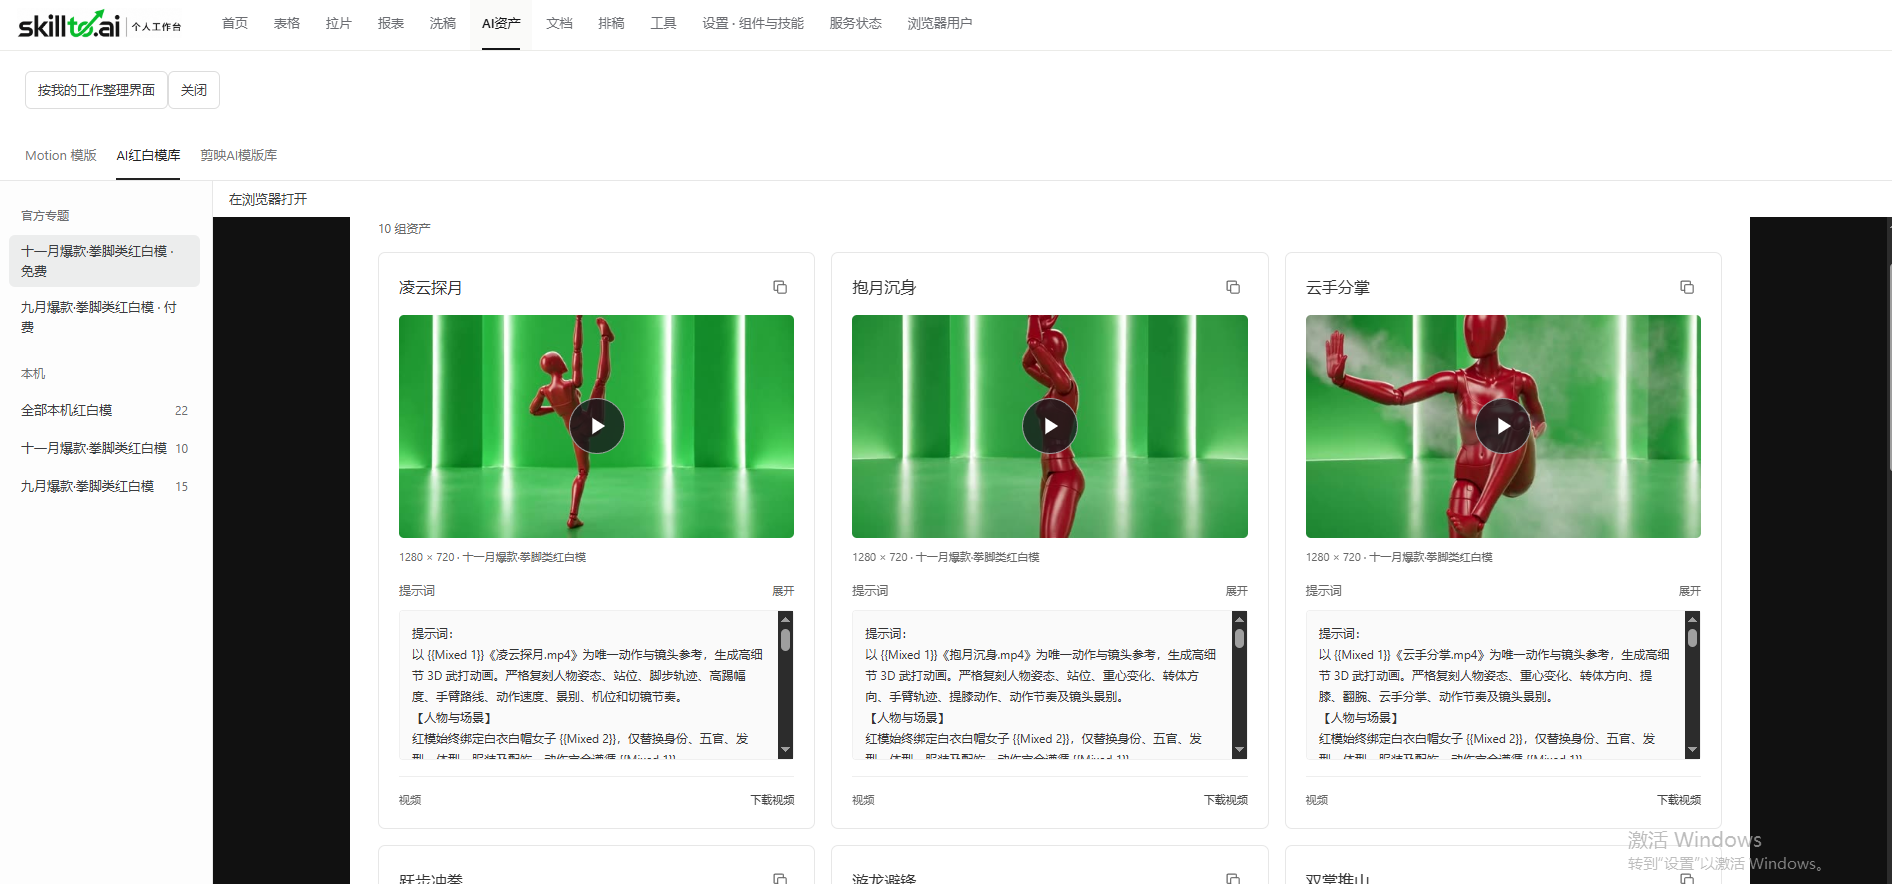
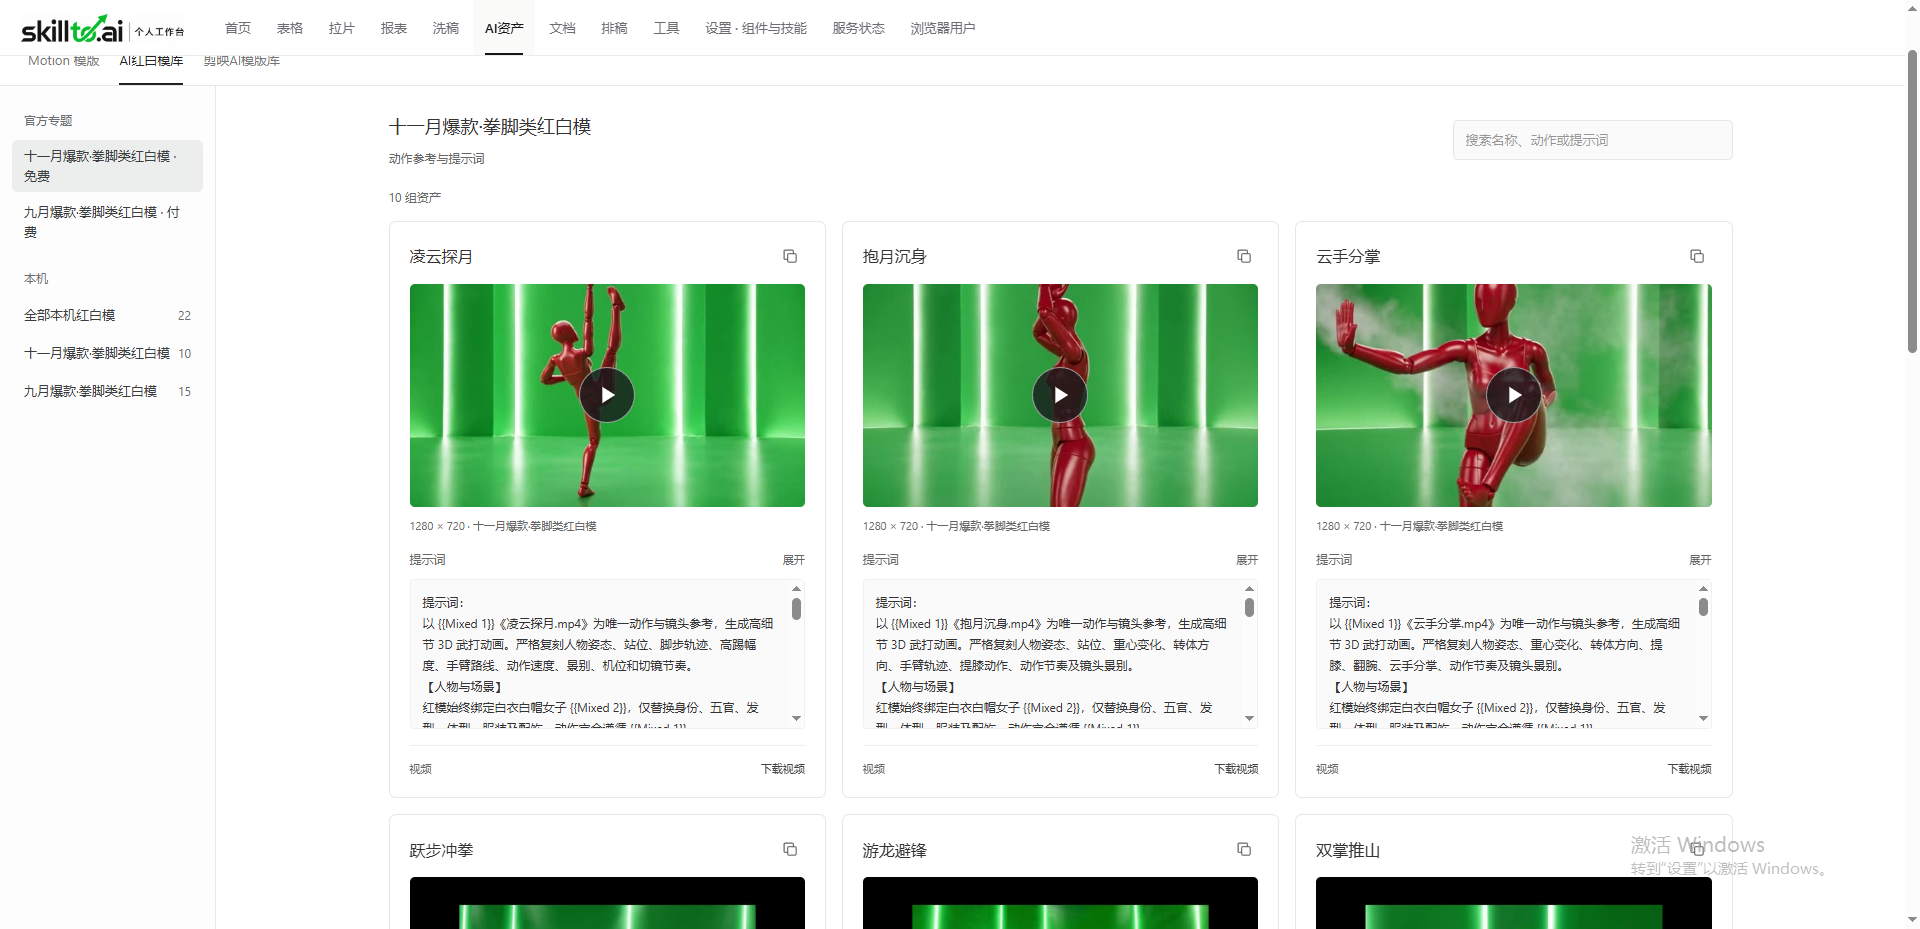
docs(readme): replace red-and-white library screenshot

diff --git a/CHANGELOG.md b/CHANGELOG.md
@@ -2,6 +2,10 @@
 
 ## Unreleased
 
+### 2026-11-21 · STASS-DOCS-RED-WHITE-02 · 更新红白模库截图
+
+- 用用户提供的新截图替换四语 README 共用的红白模库图片。核对图片与来源一致，仓库校验和离线测试通过。
+
 ### 2026-11-20 · STASS-DOCS-RED-WHITE · GitHub 首页介绍 AI 美术资产
 
 - 在四语 README 的项目介绍后展示同一张 AI 红白模库截图，介绍专题浏览、动作参考和提示词复制。
